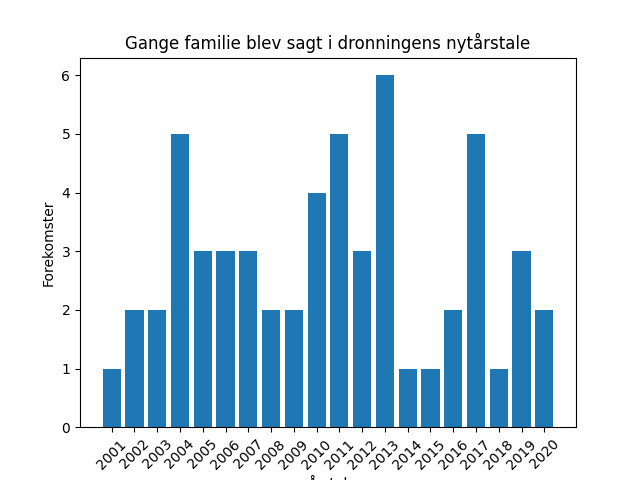
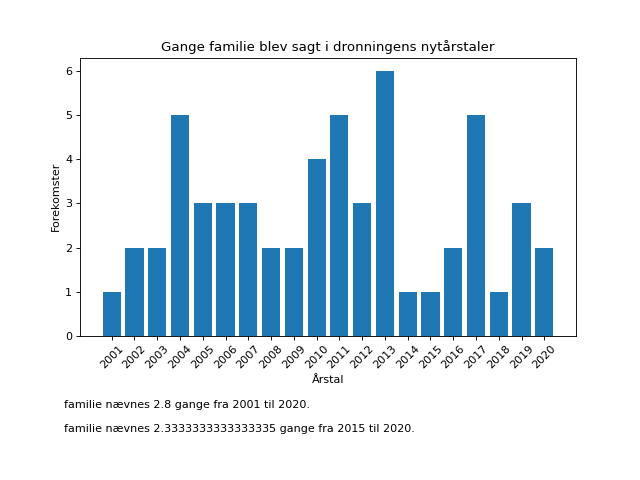
Genemsnit

diff --git a/src/Kode/main.py b/src/Kode/main.py
@@ -81,8 +81,7 @@ def MestBrugteOrdAlleAar():
             nyOrdbog[ord] = ordbog[ord]
     return nyOrdbog
 
-def HvorMangeGangeNaevnes(oddsOrd):
-    aarRaekke = range(2001,2021)
+def HvorMangeGangeNaevnes(oddsOrd, aarRaekke):
     ordPerAar = {}
     forbindelse = DatabaseForbindelse().cursor()
 
@@ -97,6 +96,14 @@ def HvorMangeGangeNaevnes(oddsOrd):
                 liste.append(gangeOrdBlevSagt)
         ordPerAar[ord] = liste
     return ordPerAar
+    
+def gennemsnitligtGangeOrdNævnes(aarRaekke, ord):
+    forekomster = HvorMangeGangeNaevnes([ord], aarRaekke)[ord]
+    forekomster = [e[1] for e in forekomster]
+    forekomster = sum(forekomster)
+    antalAar = len(aarRaekke)
+    return forekomster/antalAar
+
 
 def plotOrdPerAar(ord, forekomstListe):
     #Aarstal
@@ -104,12 +111,21 @@ def plotOrdPerAar(ord, forekomstListe):
     #Forekomster
     yAkse = [e[1] for e in forekomstListe]
 
+    plt.figure(figsize=(8, 6), dpi=80)
+    plt.subplots_adjust(bottom=0.3)
     plt.bar(xAkse, yAkse)
     plt.xticks(np.arange(min(xAkse), max(xAkse)+1, 1.0))
     plt.xticks(rotation=45)
     plt.xlabel('Årstal')
     plt.ylabel('Forekomster')
-    plt.title('Gange ' + ord + ' blev sagt i dronningens nytårstale')
+    plt.title('Gange ' + ord + ' blev sagt i dronningens nytårstaler')
+
+    text = ord + ' nævnes ' + str(gennemsnitligtGangeOrdNævnes(range(2001,2021),ord)) + ' gange fra 2001 til 2020.'
+    plt.figtext(0.1, 0.15, text)    
+    
+    text = ord + ' nævnes ' + str(gennemsnitligtGangeOrdNævnes(range(2015,2021),ord)) + ' gange fra 2015 til 2020.'
+    plt.figtext(0.1, 0.10, text)
+    
     plt.savefig("../Diagrammer/" + ord + "_2001_til_2020.png")
     plt.clf()
 
@@ -119,11 +135,8 @@ if __name__ == "__main__":
     # print("GUD BEVARE DANMARK")
     # KlargoerDatabase()
     # IndsaetAlleTalerIDatabasen()
-    # ord2002 = MestBrugteOrdIAar(2002)
-    # print(ord2002)
-    # print(MestBrugteOrdAlleAar())
     oddsOrd = ["danmark", "danske", "tak", "grønland", "færøerne", "nytår", "familie", "samfund", "verden"]
-    ordbog = HvorMangeGangeNaevnes(oddsOrd)
-    # print(ordbog)
+    ordbog = HvorMangeGangeNaevnes(oddsOrd, range(2001,2021))
     for ord in ordbog:
         plotOrdPerAar(ord, ordbog[ord])
+    # print(gennemsnitligtGangeOrdNævnes(range(2015,2020), 'grønland'))
